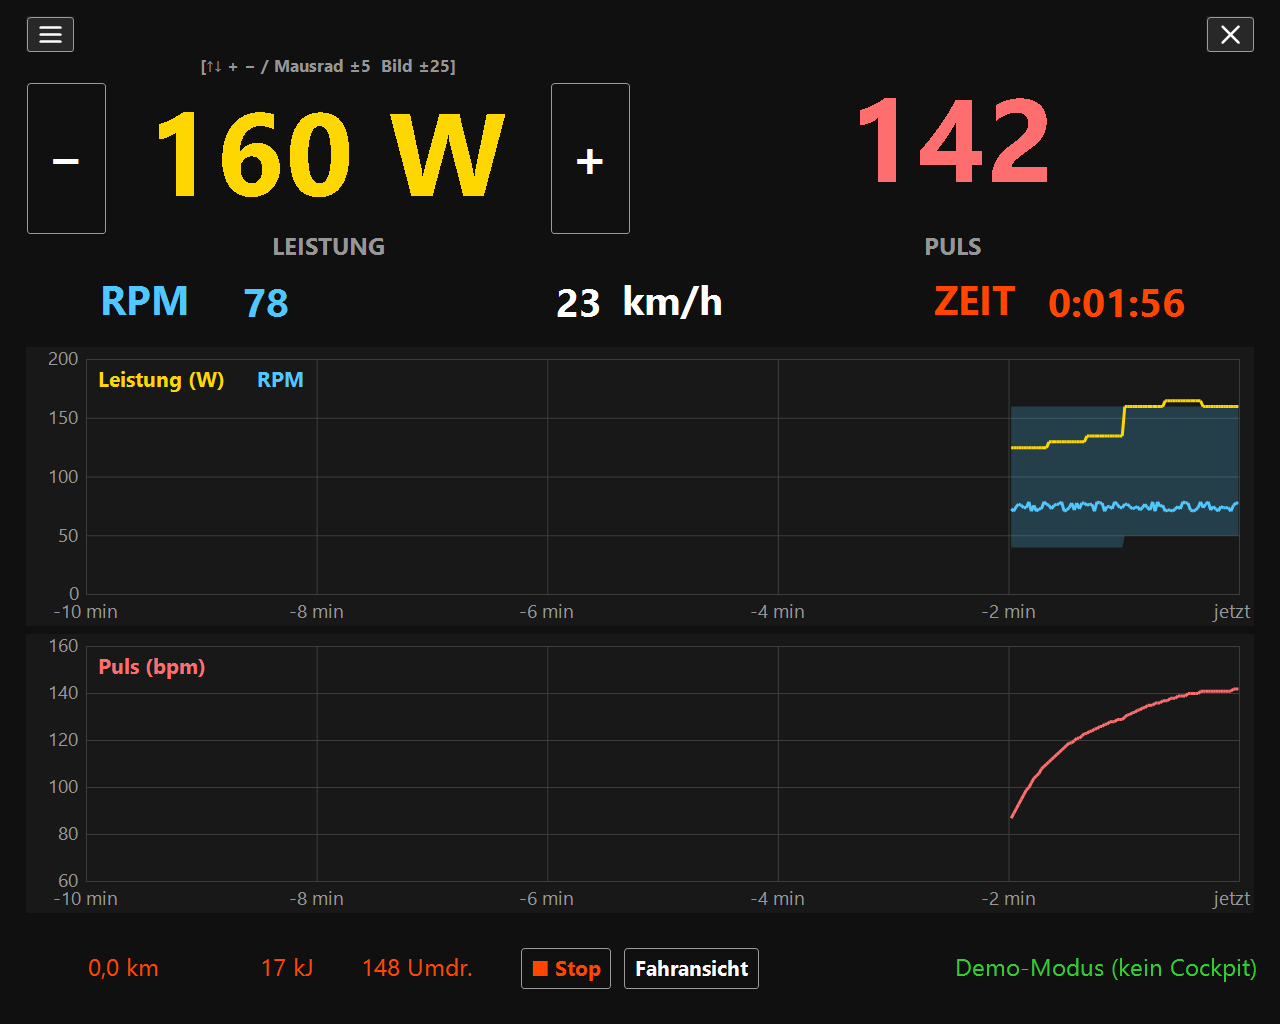
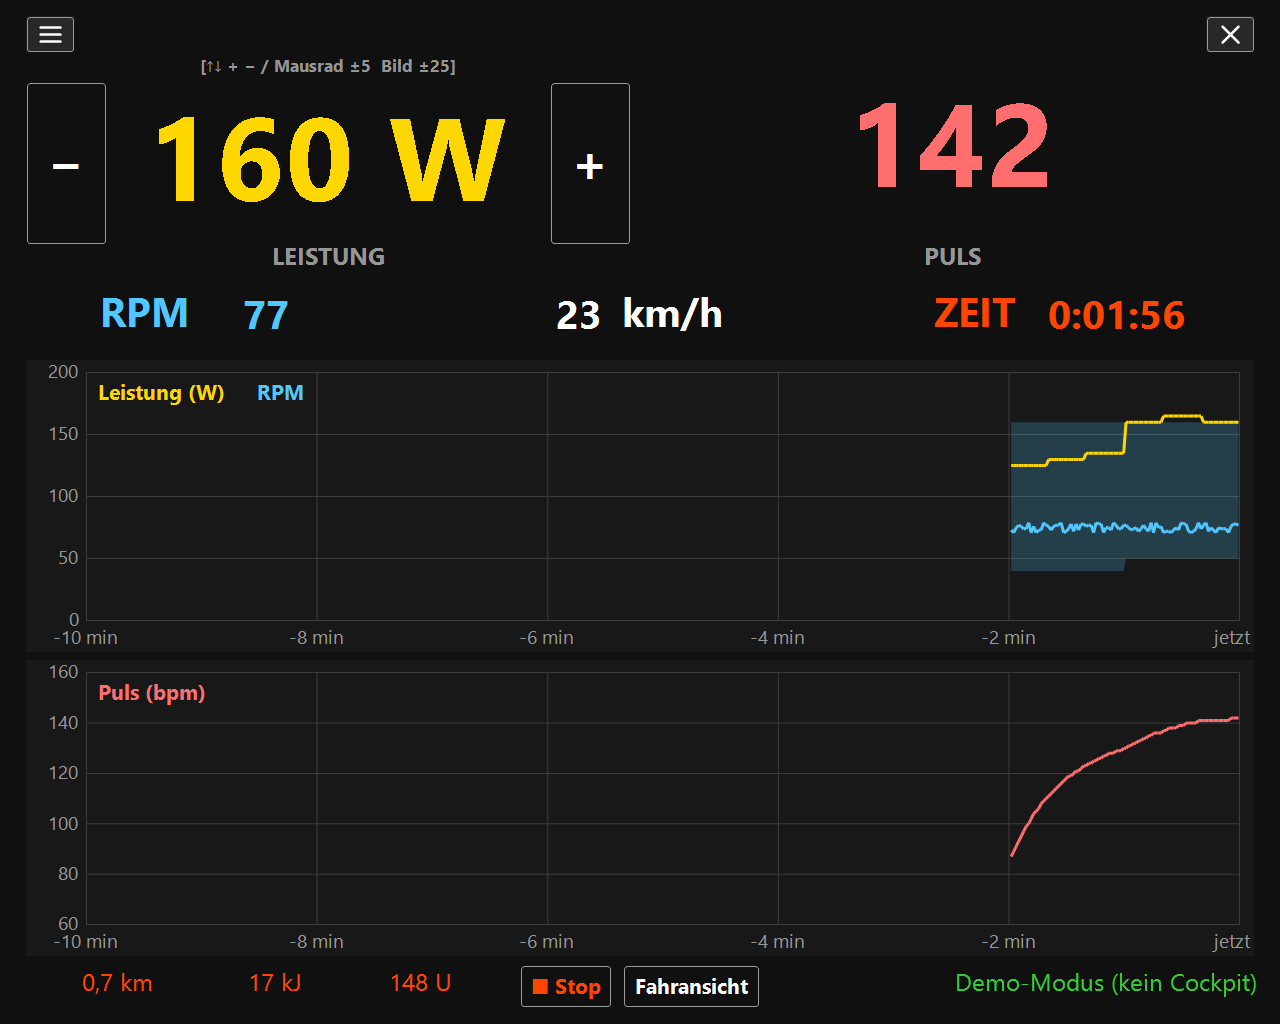
README und Hilfe: Screenshots der vier Modi
Freies Training, Strecke, Trainingsprogramm und Aufzeichnung nachfahren
mit aktueller Fahransicht (Name der Fahrt, Puls in der Übersicht),
jeweils in einem frischen Demo-Lauf aufgenommen.

diff --git a/Hilfe.html b/Hilfe.html
@@ -132,10 +132,12 @@
   <li><b>■ Training beenden</b> (unten) oder <b>☰ → Training beenden</b> bricht vorzeitig ab.</li>
 </ul>
 <figure><img src="Hilfe-Bilder/training_auswahl.png" alt="Startdialog „Aufzeichnung nachfahren“ mit einer Strecken-Aufzeichnung: Sie wird wieder als Strecke gefahren, mit den gespeicherten, für diesen Lauf änderbaren Einstellungen."><figcaption>Startdialog „Aufzeichnung nachfahren“ mit einer Strecken-Aufzeichnung: Sie wird wieder als Strecke gefahren, mit den gespeicherten, für diesen Lauf änderbaren Einstellungen.</figcaption></figure>
+<figure style="max-width:900px"><img src="Hilfe-Bilder/fahransicht_aufzeichnung.png" alt="Fahransicht beim Nachfahren einer Aufzeichnung: Puls von damals grün, von heute rot."><figcaption>Aufzeichnung nachfahren: Puls von damals (grün) und von heute (rot) über dem Leistungsverlauf.</figcaption></figure>
 
 <h2 id="programm">Trainingsprogramm starten</h2>
 <p><b>☰ → Trainingsprogramm starten …</b> listet die Trainingsprogramme mit Leistungsverlauf, Dauer und Beschreibung.</p>
 <figure><img src="Hilfe-Bilder/programm_auswahl.png" alt="Startdialog „Trainingsprogramm starten“: Leistungsverlauf, Beschreibung mit Quelle; bei Programmen ist nur die Wattgrenze einstellbar."><figcaption>Startdialog „Trainingsprogramm starten“: Leistungsverlauf, Beschreibung mit Quelle; bei Programmen ist nur die Wattgrenze einstellbar.</figcaption></figure>
+<figure style="max-width:900px"><img src="Hilfe-Bilder/fahransicht_programm.png" alt="Fahransicht beim Programm S08: oben das ganze Programm mit dem Puls, darunter die nächsten 10 Minuten."><figcaption>Fahransicht beim Programm: oben das ganze Programm mit deinem Puls (rot), darunter die nächsten 10 Minuten mit dem nächsten Wechsel.</figcaption></figure>
 <h3>P01–P44: Programme aus dem Handbuch</h3>
 <p>Die wattgesteuerten Festprogramme des 8008 TRS (Leistungstests WHO/BAL, Intervall, Pyramide, Berge, Fahrtspiele, Mannschafts-Tempotraining, Ausdauer, Cool-down) mit festen Wattwerten. Sie sind aus den Grafiken des Handbuchs abgelesen. Die Pulsprogramme (29–38) und Höhenprofile (39–41) fehlen, weil die App nur Watt steuert.</p>
 <h3>S00–S08: Programme nach aktueller Trainingswissenschaft</h3>

diff --git a/README.md b/README.md
@@ -6,7 +6,15 @@ Steuerung für das Daum **ergo_bike 8008 TRS** über die serielle Schnittstelle 
 
 ⬇ **[Download der aktuellen Version](https://github.com/andreaskuttruff-git/ErgoWattControl/releases/latest)** – **Setup** (installiert bei Bedarf die .NET 10 Desktop Runtime mit, dann die App für den angemeldeten Benutzer) oder **ZIP** zum Entpacken (braucht die [.NET 10 Desktop Runtime](https://dotnet.microsoft.com/download/dotnet/10.0)).
 
-![ErgoWattControl – Fahransicht im freien Training](Hilfe-Bilder/fahransicht.png)
+## Die Modi
+
+| Freies Training | Strecke fahren (GPX) |
+|---|---|
+| ![Freies Training: Wattvorgabe, Leistung/RPM und Puls der letzten 10 Minuten](Hilfe-Bilder/fahransicht.png) | ![Strecke fahren: Gang, Höhenprofil der ganzen Strecke und der nächsten 2 km mit Steigung](Hilfe-Bilder/fahransicht_strecke.png) |
+| Leistung in 5-W-Schritten vorgeben; oben Leistung und Trittfrequenz, unten der Puls. | Gang statt Watt: Die Bremsleistung folgt aus Steigung, Gewicht und Tempo. Unten das Höhenprofil – ganz und die nächsten 2 km. |
+| **Trainingsprogramm** | **Aufzeichnung nachfahren** |
+| ![Trainingsprogramm S08: Profil des ganzen Programms mit dem Puls, darunter die nächsten 10 Minuten](Hilfe-Bilder/fahransicht_programm.png) | ![Aufzeichnung nachfahren: Puls von damals (grün) und von heute (rot) über dem Leistungsverlauf](Hilfe-Bilder/fahransicht_aufzeichnung.png) |
+| Das Programm gibt die Leistung vor. Oben das ganze Programm mit deinem Puls, darunter die nächsten 10 Minuten mit dem nächsten Wechsel. | Eine frühere Fahrt als Vorgabe: Puls von damals (grün) neben dem von heute (rot) – so siehst du den Fortschritt. |
 
 ## Funktionen
 
